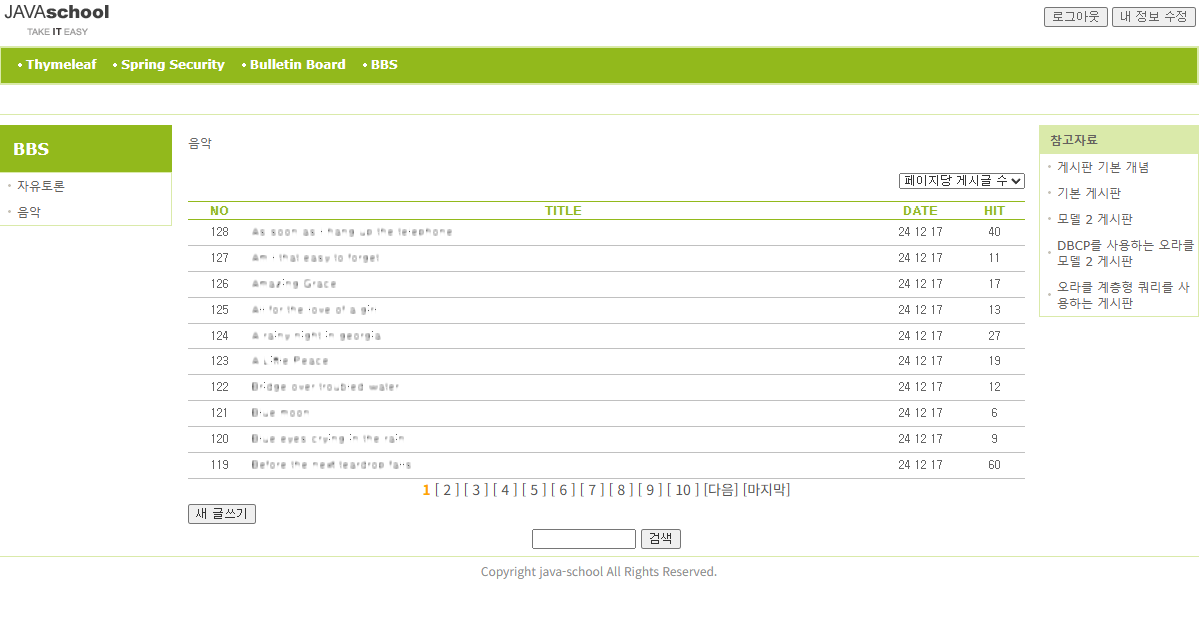
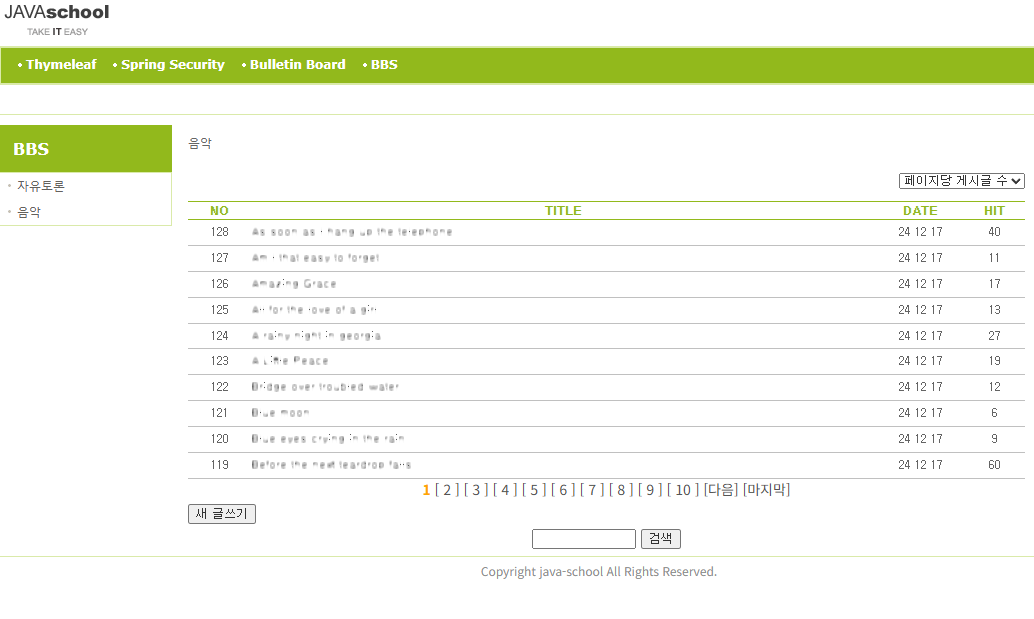
114 home

diff --git a/src/main/webapp/WEB-INF/templates/bbs/refs.html b/src/main/webapp/WEB-INF/templates/bbs/refs.html
@@ -10,12 +10,16 @@
 <body>
 <div id="extra" th:fragment="references">
 <ul>
-	<li class="sub-heading" th:text="${#locale.language == 'ko'} ? _ : 'References'">참고자료</li>
-	<li><a href="#" th:href="@{http://java-school.net/jsp/BBS-Study}" th:text="${#locale.language == 'ko'} ? _ : 'Basic Concepts of BBS'">게시판 기본 개념</a></li>
-	<li><a href="#" th:href="@{http://java-school.net/blog/2017/basic-board}" th:text="${#locale.language == 'ko'} ? _ : 'Basic Board'">기본 게시판</a></li>
-	<li><a href="#" th:href="@{http://java-school.net/blog/2017/model2-board}" th:text="${#locale.language == 'ko'} ? _ : 'Model 2 Board'">모델 2 게시판</a></li>
-	<li><a href="#" th:href="@{http://java-school.net/blog/2017/model2-board-using-DBCP}" th:text="${#locale.language == 'ko'} ? _ : 'Oracle Model 2 Board using DBCP'">DBCP를 사용하는 오라클 모델 2 게시판</a></li>
-	<li><a href="#" th:href="@{http://java-school.net/blog/2017/board-using-oracle-hierarchical-query}" th:text="${#locale.language == 'ko'} ? _ : 'Board using Oracle hierarchical query'">오라클 계층형 쿼리를 사용하는 게시판</a></li>
+	<li class="sub-heading">링크</li>
+	<li><a href="https://www.netflix.com/browse">넷플릭스</a></li>
+	<li><a href="https://www.youtube.com">유튜브</a></li>
+	<li><a href="https://drive.google.com/drive/my-drive">구글 드라이브</a></li>
+	<li><a href="https://translate.google.co.kr">구글 번역</a></li>
+	<li><a href="https://mail.google.com">G메일</a></li>
+	<li><a href="https://www.google.co.kr/maps">구글 지도</a></li>
+	<li><a href="https://www.weather.go.kr">날씨</a></li>
+	<li><a href="https://vclock.kr/time/">온라인 시계</a></li>
+	<li><a href="https://nara-speller.co.kr/speller/">맞춤법/문법 검사기</a></li>
 </ul>
 </div>
 </body>

diff --git a/src/main/webapp/WEB-INF/templates/articles/03.html b/src/main/webapp/WEB-INF/templates/articles/03.html
@@ -1947,6 +1947,14 @@ screen.css와 print.css 파일에 다음을 추가한다.<br />
 </p>
 
 <p>
+refs_en.html 파일도 생성한다.
+</p>
+
+<p>
+<img src="../../../images/bbs-refs_en.png" th:src="@{/static/images/bbs-refs_en.png}" alt="게시판 참고자료 영어 화면" />
+</p>
+
+<p>
 commons/mainmenu.html,
 commons/mainmenu_ko.html,
 commons/mainmenu_en.html에 
@@ -2522,7 +2530,7 @@ public class BbsController <strong>extends Paginator</strong> {
 &lt;div id="i18n"&gt;&lt;/div&gt;
 &lt;section th:replace="~{articles/list :: article}"&gt;&lt;/section&gt;
 &lt;aside th:replace="~{bbs/menu :: index}"&gt;&lt;/aside&gt;
-&lt;footer th:replace="~{bbs/refs :: references}"&gt;&lt;/footer&gt;
+&lt;footer th:replace="${#locale.language == 'ko'} ? ~{bbs/refs :: references} : ~{bbs/refs_en :: reference}"&gt;&lt;/footer&gt;
 &lt;/body&gt;
 &lt;/html&gt;
 </pre>
@@ -2794,7 +2802,7 @@ public String view(
 &lt;div id="i18n"&gt;&lt;/div&gt;
 &lt;section th:replace="~{articles/view :: article}"&gt;&lt;/section&gt;
 &lt;aside th:replace="~{bbs/menu :: index}"&gt;&lt;/aside&gt;
-&lt;footer th:replace="~{bbs/refs :: references}"&gt;&lt;/footer&gt;
+&lt;footer th:replace="${#locale.language == 'ko'} ? ~{bbs/refs :: references} : ~{bbs/refs_en :: reference}"&gt;&lt;/footer&gt;
 &lt;/body&gt;
 &lt;/html&gt;
 </pre>

diff --git a/src/main/webapp/WEB-INF/templates/articles/03_en.html b/src/main/webapp/WEB-INF/templates/articles/03_en.html
@@ -1938,6 +1938,14 @@ screen.css와 print.css 파일에 다음을 추가한다.<br />
 </p>
 
 <p>
+refs_en.html 파일도 생성한다.
+</p>
+
+<p>
+<img src="../../../images/bbs-refs_en.png" th:src="@{/static/images/bbs-refs_en.png}" alt="게시판 참고자료 영어 화면" />
+</p>
+
+<p>
 commons/mainmenu.html,
 commons/mainmenu_ko.html,
 commons/mainmenu_en.html에 
@@ -2513,7 +2521,7 @@ public class BbsController <strong>extends Paginator</strong> {
 &lt;div id="i18n"&gt;&lt;/div&gt;
 &lt;section th:replace="~{articles/list :: article}"&gt;&lt;/section&gt;
 &lt;aside th:replace="~{bbs/menu :: index}"&gt;&lt;/aside&gt;
-&lt;footer th:replace="~{bbs/refs :: references}"&gt;&lt;/footer&gt;
+&lt;footer th:replace="${#locale.language == 'ko'} ? ~{bbs/refs :: references} : ~{bbs/refs_en :: reference}"&gt;&lt;/footer&gt;
 &lt;/body&gt;
 &lt;/html&gt;
 </pre>
@@ -2785,7 +2793,7 @@ public String view(
 &lt;div id="i18n"&gt;&lt;/div&gt;
 &lt;section th:replace="~{articles/view :: article}"&gt;&lt;/section&gt;
 &lt;aside th:replace="~{bbs/menu :: index}"&gt;&lt;/aside&gt;
-&lt;footer th:replace="~{bbs/refs :: references}"&gt;&lt;/footer&gt;
+&lt;footer th:replace="${#locale.language == 'ko'} ? ~{bbs/refs :: references} : ~{bbs/refs_en :: reference}"&gt;&lt;/footer&gt;
 &lt;/body&gt;
 &lt;/html&gt;
 </pre>

diff --git a/src/main/webapp/WEB-INF/templates/bbs/refs_en.html b/src/main/webapp/WEB-INF/templates/bbs/refs_en.html
@@ -1,0 +1,23 @@
+<html xmlns:th="http://www.thymeleaf.org">
+<head>
+<link rel="stylesheet" media="all" href="../../../static/css/screen.css" />
+<style>
+#extra {
+  margin-left: 0;
+}
+</style>
+</head>
+<body>
+<div id="extra" th:fragment="references">
+<ul>
+	<li class="sub-heading">Links</li>
+	<li><a href="https://www.netflix.com/browse">Netflix</a></li>
+	<li><a href="https://www.youtube.com">YouTube</a></li>
+	<li><a href="https://drive.google.com/drive/my-drive">Google Drive</a></li>
+	<li><a href="https://translate.google.co.kr">Google Translate</a></li>
+	<li><a href="https://mail.google.com">Gmail</a></li>
+	<li><a href="https://www.google.co.kr/maps">Google Maps</a></li>
+</ul>
+</div>
+</body>
+</html>

diff --git a/src/main/webapp/WEB-INF/templates/bbs/list.html b/src/main/webapp/WEB-INF/templates/bbs/list.html
@@ -18,7 +18,6 @@
 
 <aside th:replace="~{bbs/menu :: index}"></aside>
 
-<footer th:replace="~{bbs/refs :: references}"></footer>
-
+<footer th:replace="${#locale.language == 'ko'} ? ~{bbs/refs :: references} : ~{bbs/refs_en :: reference}"></footer>
 </body>
 </html>

diff --git a/src/main/webapp/WEB-INF/templates/bbs/view.html b/src/main/webapp/WEB-INF/templates/bbs/view.html
@@ -17,7 +17,6 @@
 
 <aside th:replace="~{bbs/menu :: index}"></aside>
 
-<footer th:replace="~{bbs/refs :: references}"></footer>
-
+<footer th:replace="${#locale.language == 'ko'} ? ~{bbs/refs :: references} : ~{bbs/refs_en :: reference}"></footer>
 </body>
 </html>
